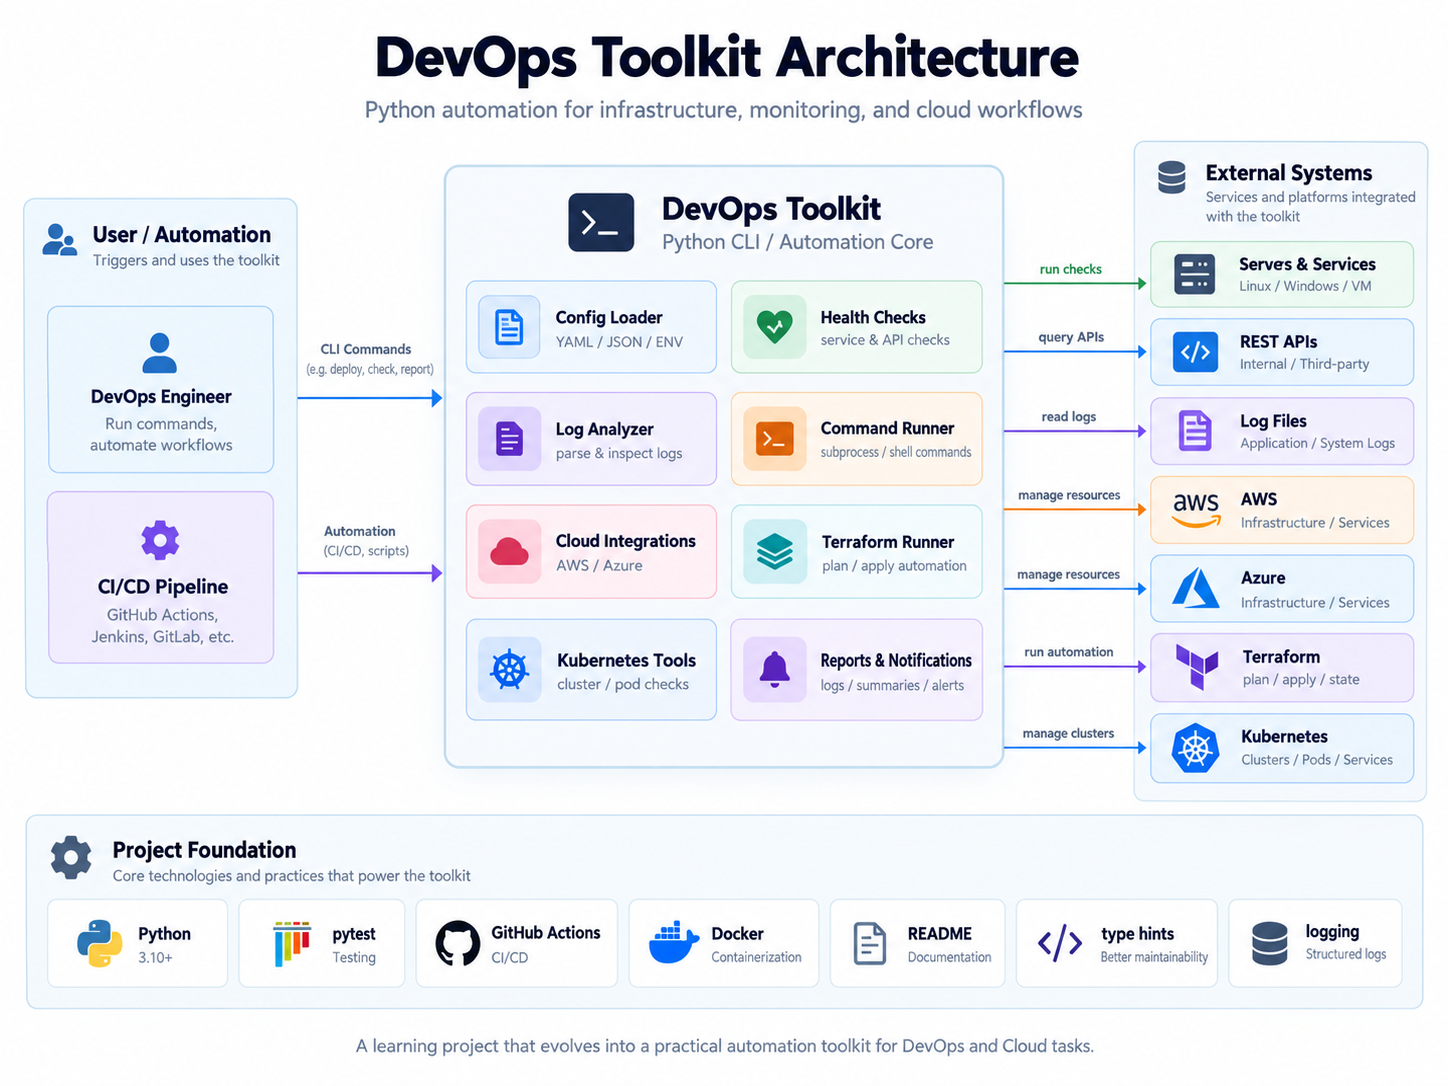
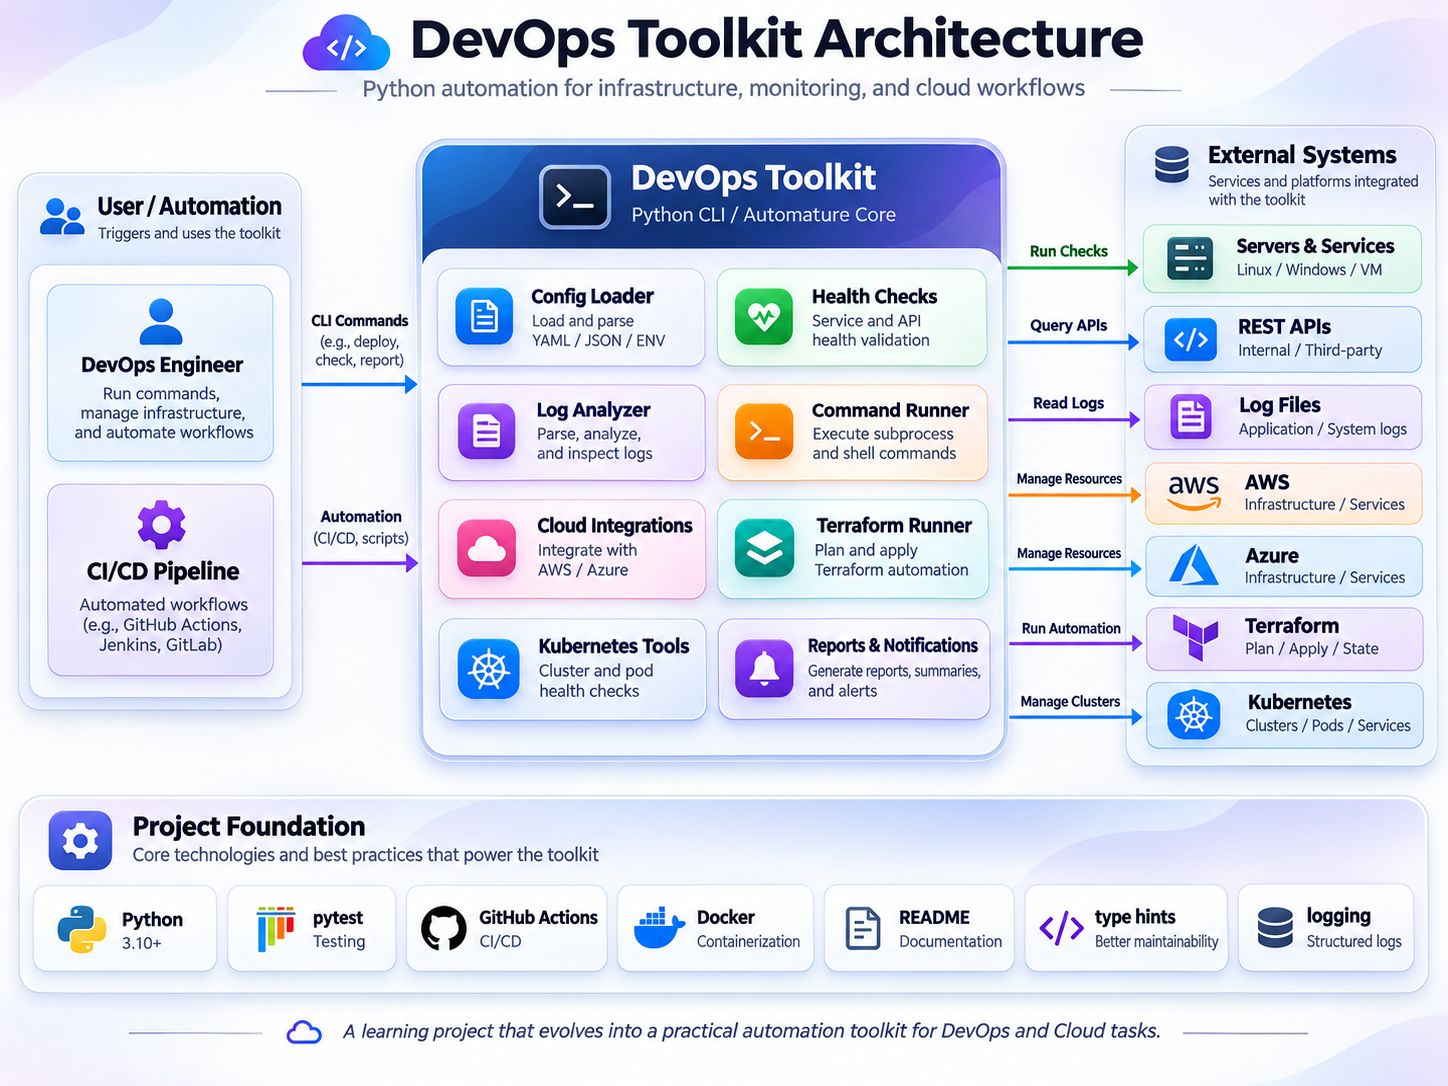
day_15

diff --git a/exercises/day_15_validation_refactor.py b/exercises/day_15_validation_refactor.py
@@ -1,0 +1,59 @@
+import json
+
+def validate_server(server): 
+    if 'cpu' not in server or 'name' not in server  or 'active' not in server:
+        return False
+
+    if not isinstance(server["active"], (bool)):
+        return False
+
+    if validate_name(server["name"]) == False or validate_cpu(server["cpu"]) == False:
+        return False
+
+    return True
+
+
+def validate_name(name):
+    if name == '':
+        return False
+
+    return True
+
+
+def validate_cpu(cpu):
+    if type(cpu) not in (int, float):
+        return False
+
+    if not 0 <= cpu <= 100:
+        return False
+
+    return True
+
+try: 
+    with open("day_14/servers_validation.json", "r", encoding="utf-8") as file:
+        servers = json.load(file)
+
+except FileNotFoundError:
+    print("Nie znaleziono pliku")
+
+except json.JSONDecodeError as e:
+    print("Invalid JSon")
+
+else:
+
+    print("=== CONFIG VALIDATION REPORT ===")
+
+    valid_servers = []
+    invalid_servers = []
+    status = ''
+
+    for server in servers:
+        if validate_server(server):
+            valid_servers.append(server)
+            print(f"{server['name']} : VALID")
+        else:
+            invalid_servers.append(server)
+            print(f"{server['name']} : INVALID")
+
+print(f"Valid servers: {len(valid_servers)}")
+print(f"Invalid servers: {len(invalid_servers)}")
